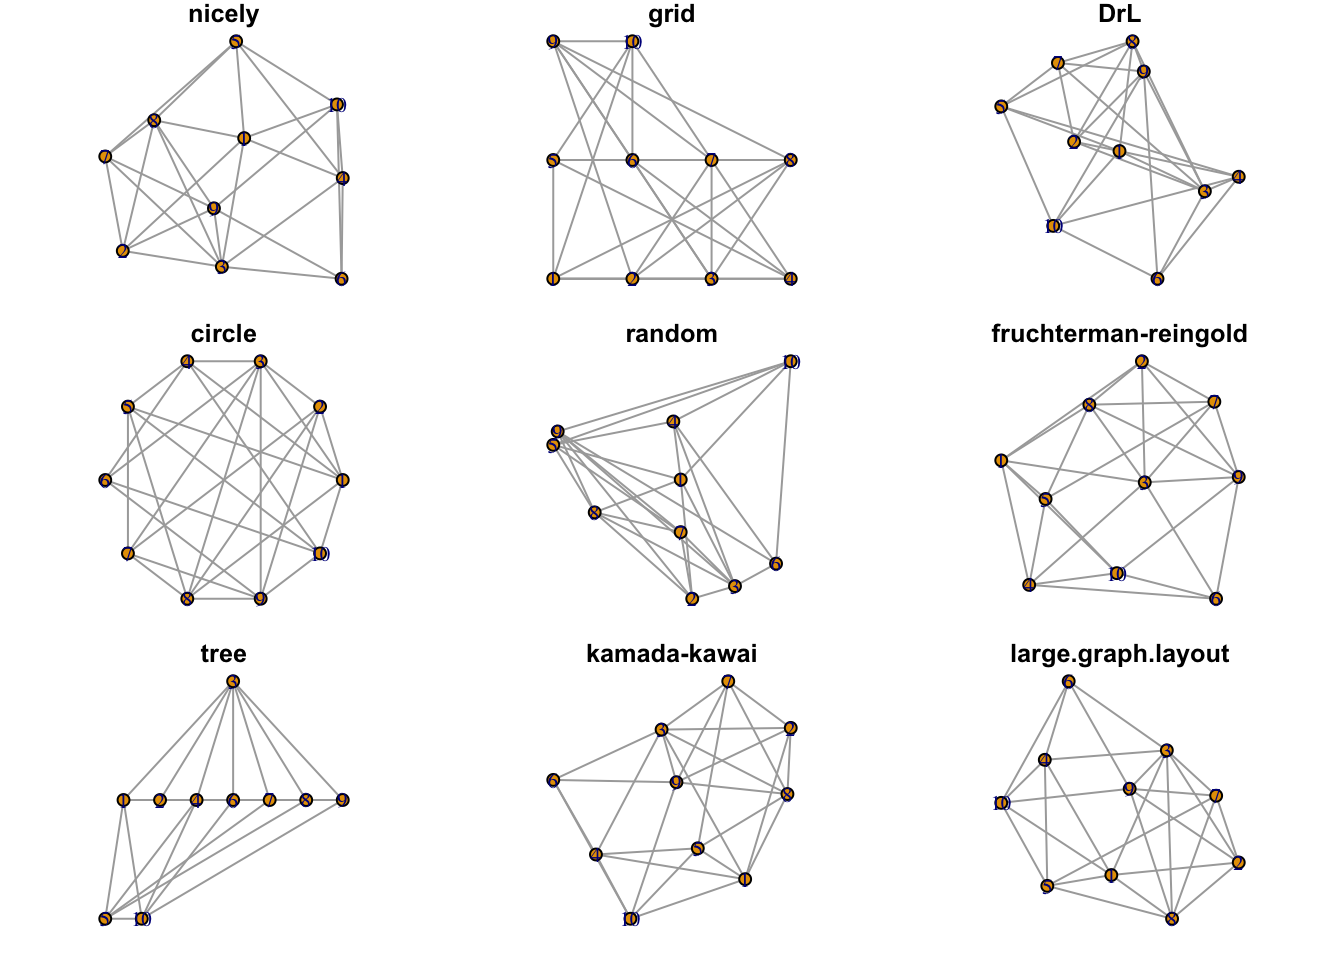
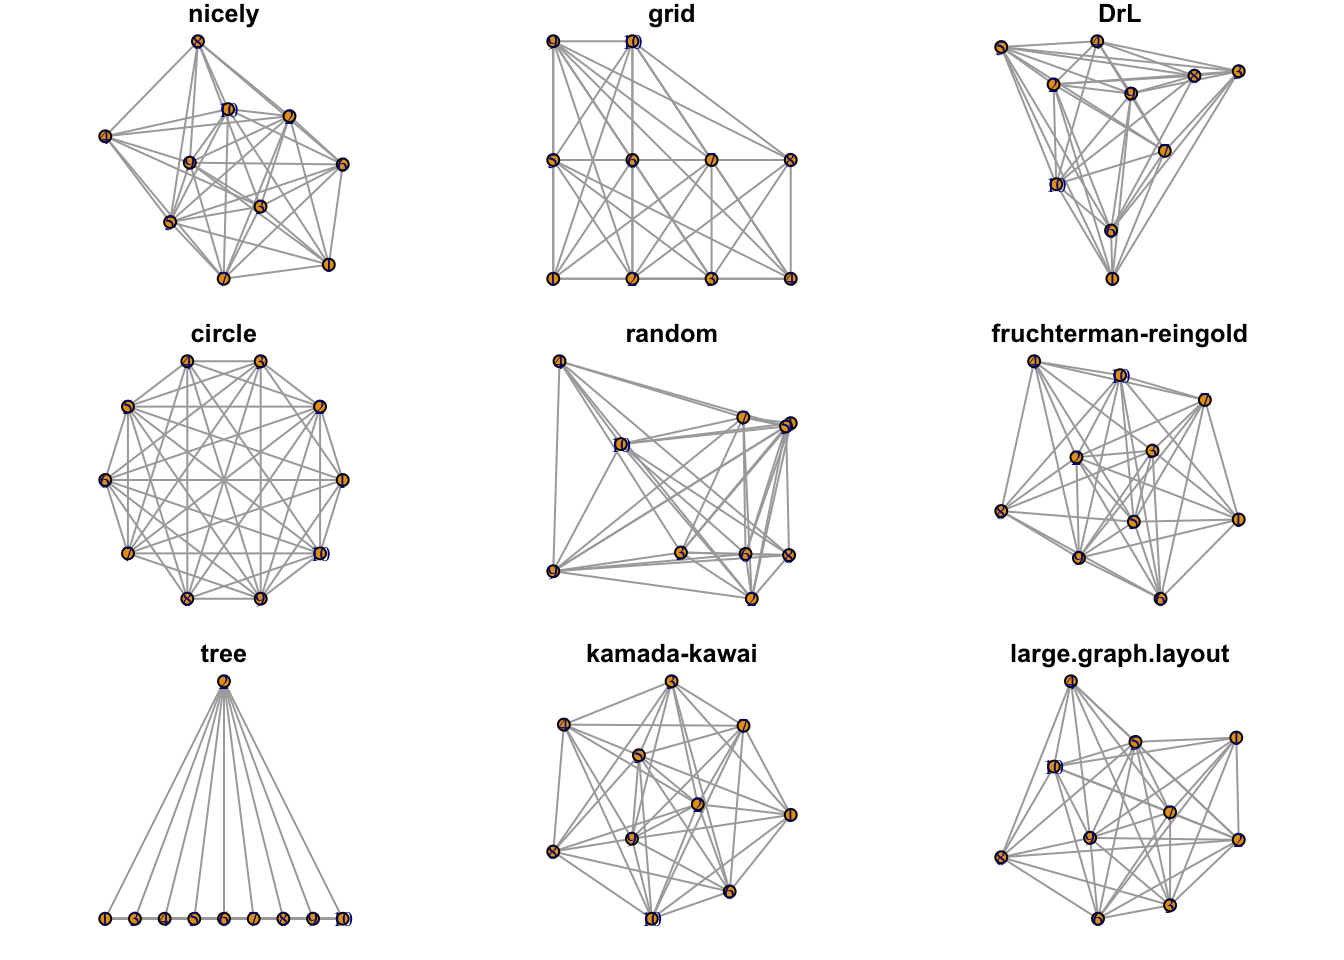
edge attr

diff --git a/docs/igraph.html b/docs/igraph.html
@@ -126,6 +126,7 @@
 <li class="chapter" data-level="4.3" data-path="igraph.html"><a href="igraph.html#layout-of-nodes"><i class="fa fa-check"></i><b>4.3</b> Layout of Nodes</a></li>
 <li class="chapter" data-level="4.4" data-path="igraph.html"><a href="igraph.html#attributes"><i class="fa fa-check"></i><b>4.4</b> Attributes</a><ul>
 <li class="chapter" data-level="4.4.1" data-path="igraph.html"><a href="igraph.html#vertices"><i class="fa fa-check"></i><b>4.4.1</b> Vertices</a></li>
+<li class="chapter" data-level="4.4.2" data-path="igraph.html"><a href="igraph.html#edges"><i class="fa fa-check"></i><b>4.4.2</b> Edges</a></li>
 </ul></li>
 </ul></li>
 <li class="chapter" data-level="5" data-path="first-graphs.html"><a href="first-graphs.html"><i class="fa fa-check"></i><b>5</b> First Graphs</a><ul>
@@ -311,8 +312,17 @@ Figure 4.5: Additional node color palettes.
 <p>For plot.igraph and integer values, the default igraph palette is used (see the ‘palette’ parameter below. Note that this is different from the R palette.</p>
 <p>If you don’t want (some) vertices to have any color, supply NA as the color name.</p>
 <p>The default value is “SkyBlue2”.</p>
-
 </div>
+</div>
+<div id="edges" class="section level3">
+<h3><span class="header-section-number">4.4.2</span> Edges</h3>
+<div class="figure" style="text-align: center"><span id="fig:edge-attributes"></span>
+<img src="04-igraph_files/figure-html/edge-attributes-1.png" alt="Selected edge attributes." width="672" />
+<p class="caption">
+Figure 4.6: Selected edge attributes.
+</p>
+</div>
+
 </div>
 </div>
 </div>

diff --git a/docs/04-igraph.md b/docs/04-igraph.md
@@ -113,3 +113,12 @@ If you don't want (some) vertices to have any color, supply NA as the color name
 
 The default value is “SkyBlue2”.
 
+
+
+### Edges
+
+<div class="figure" style="text-align: center">
+<img src="04-igraph_files/figure-html/edge-attributes-1.png" alt="Selected edge attributes." width="672" />
+<p class="caption">(\#fig:edge-attributes)Selected edge attributes.</p>
+</div>
+
